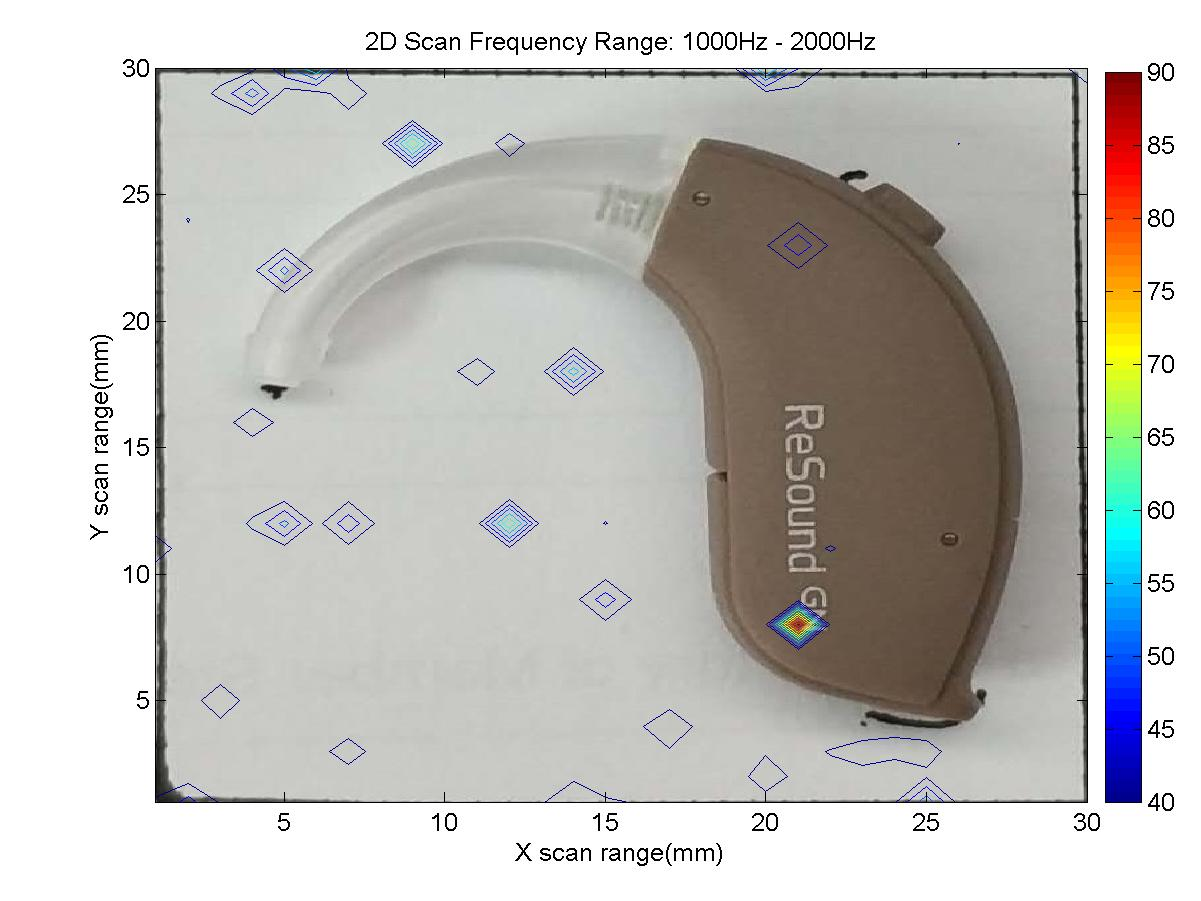
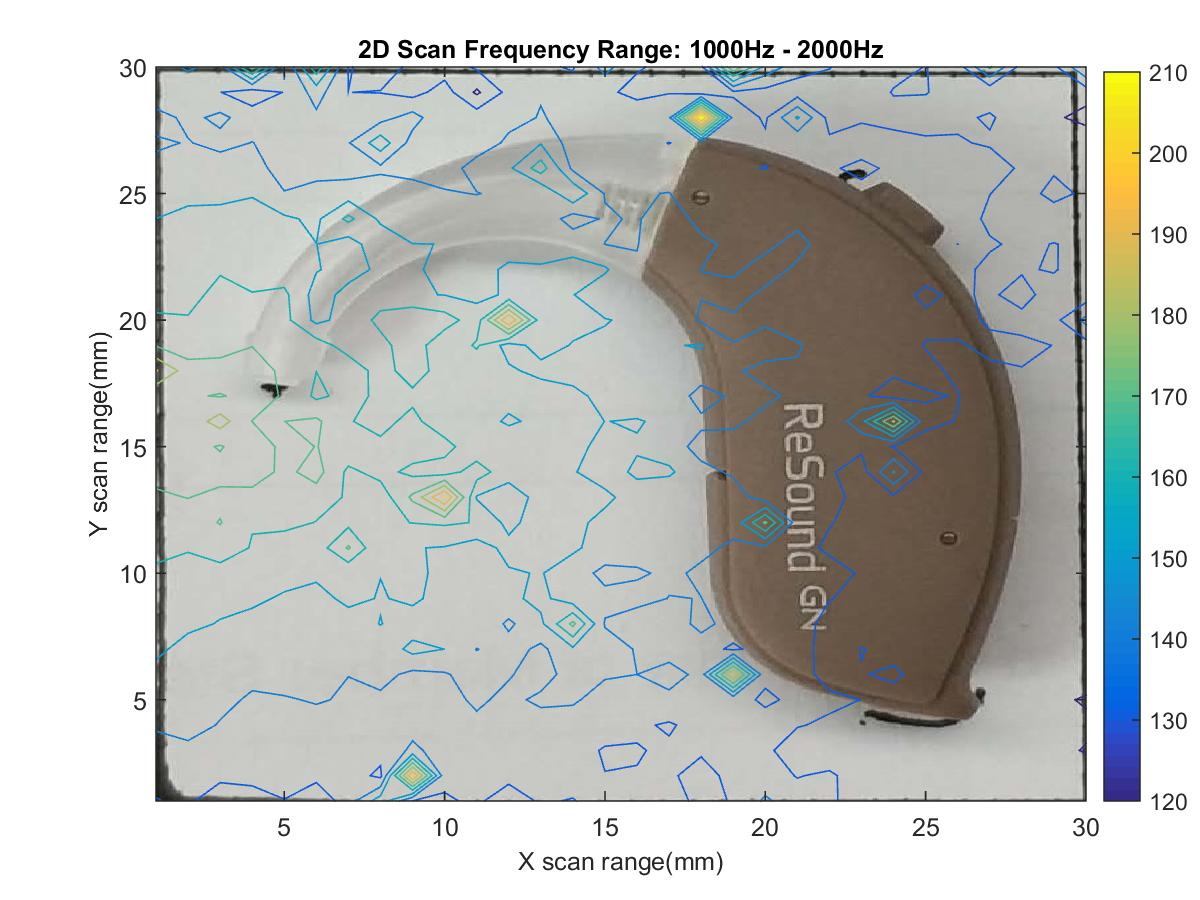
script update
the algorithm of power _data update
base this udpate, new output

diff --git a/read_data_multi_header.m b/read_data_multi_header.m
@@ -1,4 +1,5 @@
 %%% created by Chandler 20Sep2017
+
 clc;
 clear;
 tic;
@@ -9,11 +10,11 @@ tic;
 % % ====== count the number and coordinate
 % length=size(temp{1});
 % nodes=length(1,1);
-%
+% 
 % header_n=27;
 % freq_n=1102;
 % nodes=nodes/(freq_n*2+header_n); % header:27 freq:1102 data:1102
-%
+% 
 % freq=zeros(1,freq_n);
 % data=zeros(nodes,freq_n);
 % for ii=header_n+1:header_n+freq_n
@@ -26,12 +27,12 @@ tic;
 %         data(jj,ii-((jj-1)*(header_n+freq_n*2)+header_n+freq_n)) = str2double(temp{1}{ii});
 %     end
 % end
-%
+% 
 % fclose(fid);
 % clear temp;
 
 %% another faster method - read every line
-fid=fopen('data 2017-10-16.txt','r');
+fid=fopen('There is a sound source_2017-11-17.txt','r');
 i=1;
 while feof(fid)==0
     tline{i,1}=fgetl(fid);
@@ -54,7 +55,7 @@ for ii=1:nodes
     data(ii,:) = str2num(tline{ii*3});
 end
 
-%% calculate the acoustic power amplitude of a frequency range
+%% calculate the acoustic power amplitude of a frequency range 
 f1 = input('Please input the start freq you consider f1: ');
 f2 = input('Please input the end freq you consider f2: ');
 f1_L=find(freq==f1);
@@ -62,7 +63,7 @@ f2_L=find(freq==f2);
 
 pressure = zeros(nodes,1);
 power_data = data.^2;
-pressure = sqrt( sum(power_data,2)/(f2_L-f1_L) );
+pressure = sqrt( sum(power_data(:,f1_L:f2_L),2)/(f2_L-f1_L) );
 
 
 %% pcolor of the scan
@@ -79,7 +80,7 @@ set(gca,'FontSize',12);title(['2D Scan Frequency Range: ',num2str(f1),'Hz - ',nu
 xlabel('X scan range(mm)','FontSize',12);ylabel('Y scan range(mm)','FontSize',12);
 
 saveas(gcf,['2D holography scan_',num2str(f1),'-',num2str(f2),'Hz.jpg']);
-pause；
+pause
 
 %% contour the scan
 figure;
@@ -88,7 +89,7 @@ im_base=imread('berlin60.jpg');         % first, we need a base figure
 image(im_base);
 set(h1,'handlevisibility','off','visible','off'); %clear the axis of figure
 
-contourf(P);colorbar('position',[0.92 0.11 0.03 0.81])
+contour(P);colorbar('position',[0.92 0.11 0.03 0.81])
 set(gca,'color','none','FontSize',12);
 title(['2D Scan Frequency Range: ',num2str(f1),'Hz - ',num2str(f2),'Hz'],'FontSize',12);
 xlabel('X scan range(mm)','FontSize',12);ylabel('Y scan range(mm)','FontSize',12);
